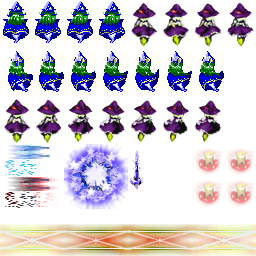
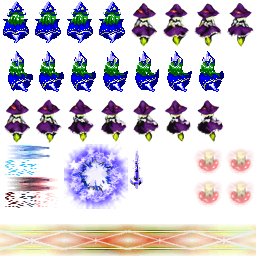
Sprite Change for TH08

Changed region(s): [[0.125, 0.375, 0.875, 0.5625], [0.0312, 0.4062, 0.0938, 0.5312]]

diff --git a/mima/files.js b/mima/files.js
@@ -994,7 +994,7 @@
 	"th08/data/face/yuyuko/face_yy01sw.png": 1754464018,
 	"th08/data/front/ename.png": 4059987754,
 	"th08/data/front/front.png": 4235959138,
-	"th08/data/player00/player01.png": 169255612,
+	"th08/data/player00/player01.png": 3903730690,
 	"th08/data/player00/player01b.png": 3148009018,
 	"th08/data/player00/player03.png": 1576664549,
 	"th08/data/stgenm/stg4benm.png": 3496821779,
